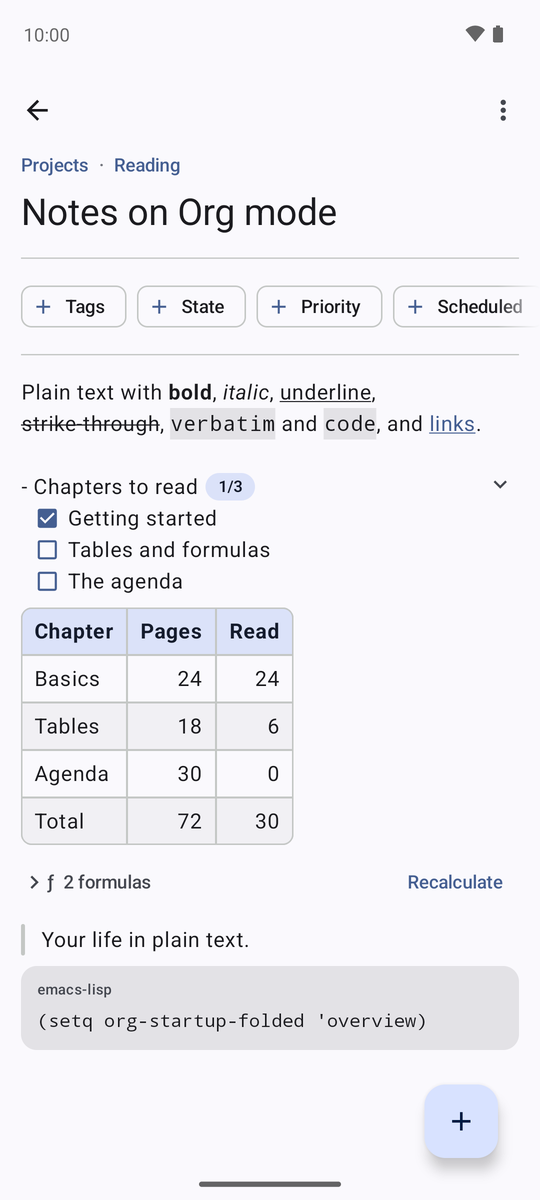
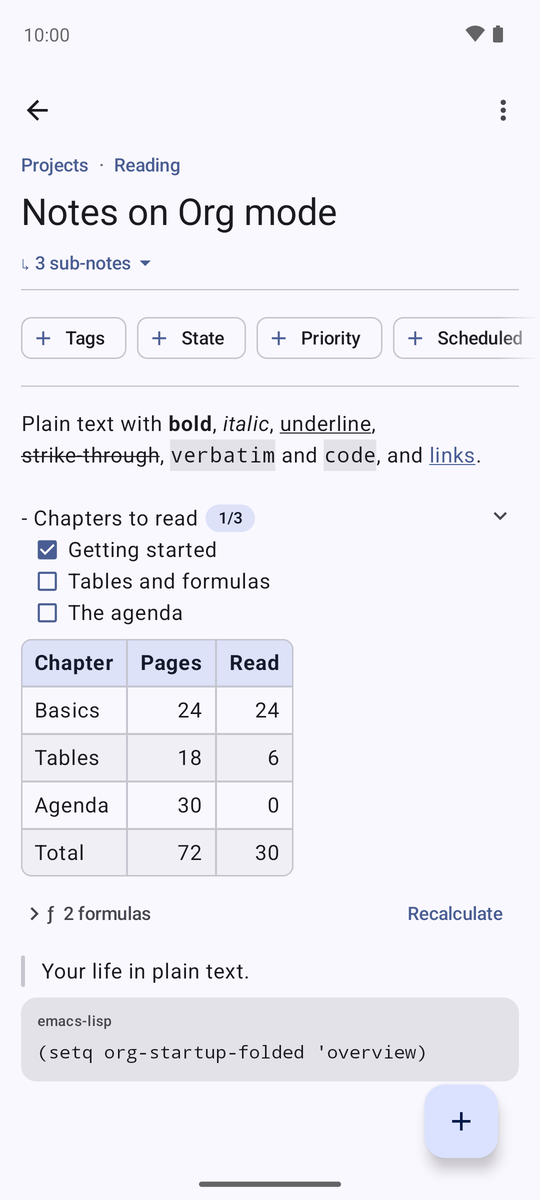
README: retake the note screenshot with its sub-notes chip

Changed region(s): [[0.0296, 0.2158, 0.9778, 0.8942], [0.7407, 0.7092, 0.9185, 0.7708], [0.9185, 0.4008, 0.9481, 0.4317]]

diff --git a/README.md b/README.md
@@ -7,7 +7,7 @@ An Android app for [Org mode](https://orgmode.org) notes, inspired by
 
 <p>
   <img src="docs/screenshots/notebook.png" alt="A notebook" width="200">
-  <img src="docs/screenshots/note.png" alt="A note with formatting, checkboxes, a table with formulas and blocks" width="200">
+  <img src="docs/screenshots/note.png" alt="A note with its sub-notes, formatting, checkboxes, a table with formulas and blocks" width="200">
   <img src="docs/screenshots/edit.png" alt="Editing a note, with the toolbar over the keyboard" width="200">
   <img src="docs/screenshots/agenda.png" alt="The agenda" width="200">
 </p>
